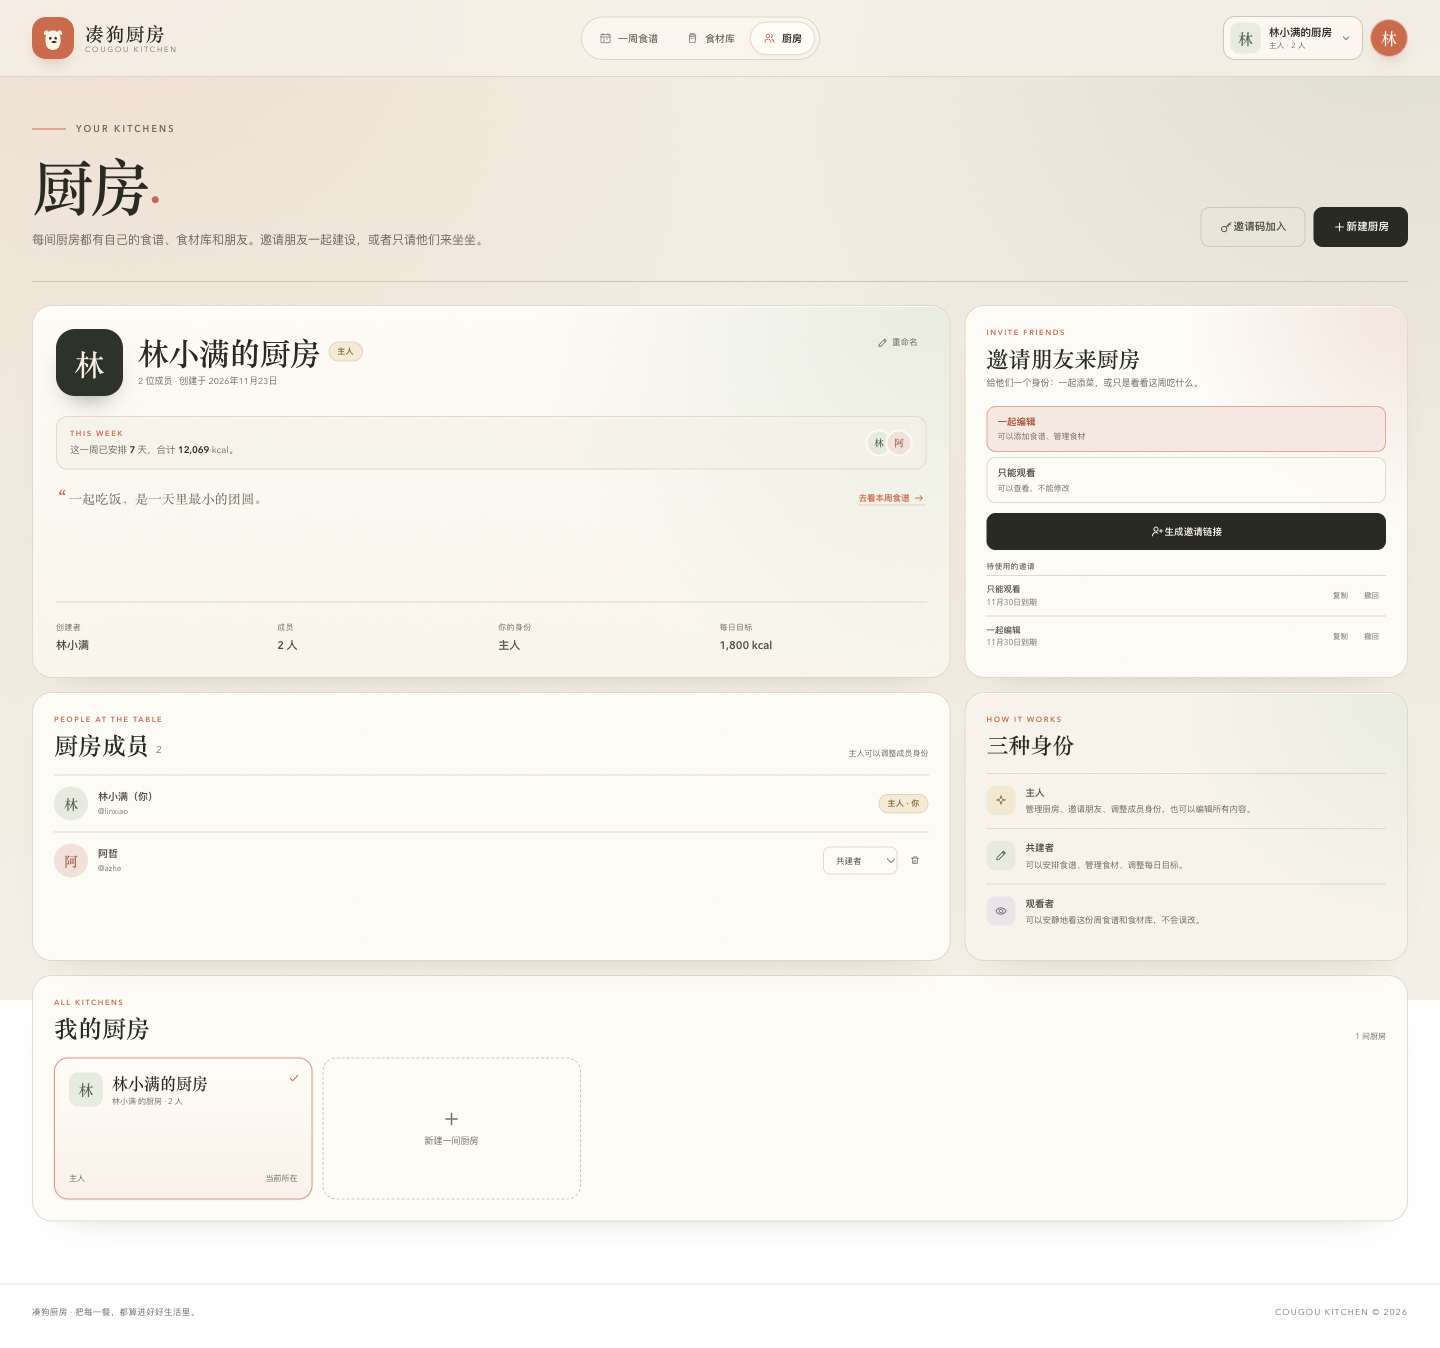
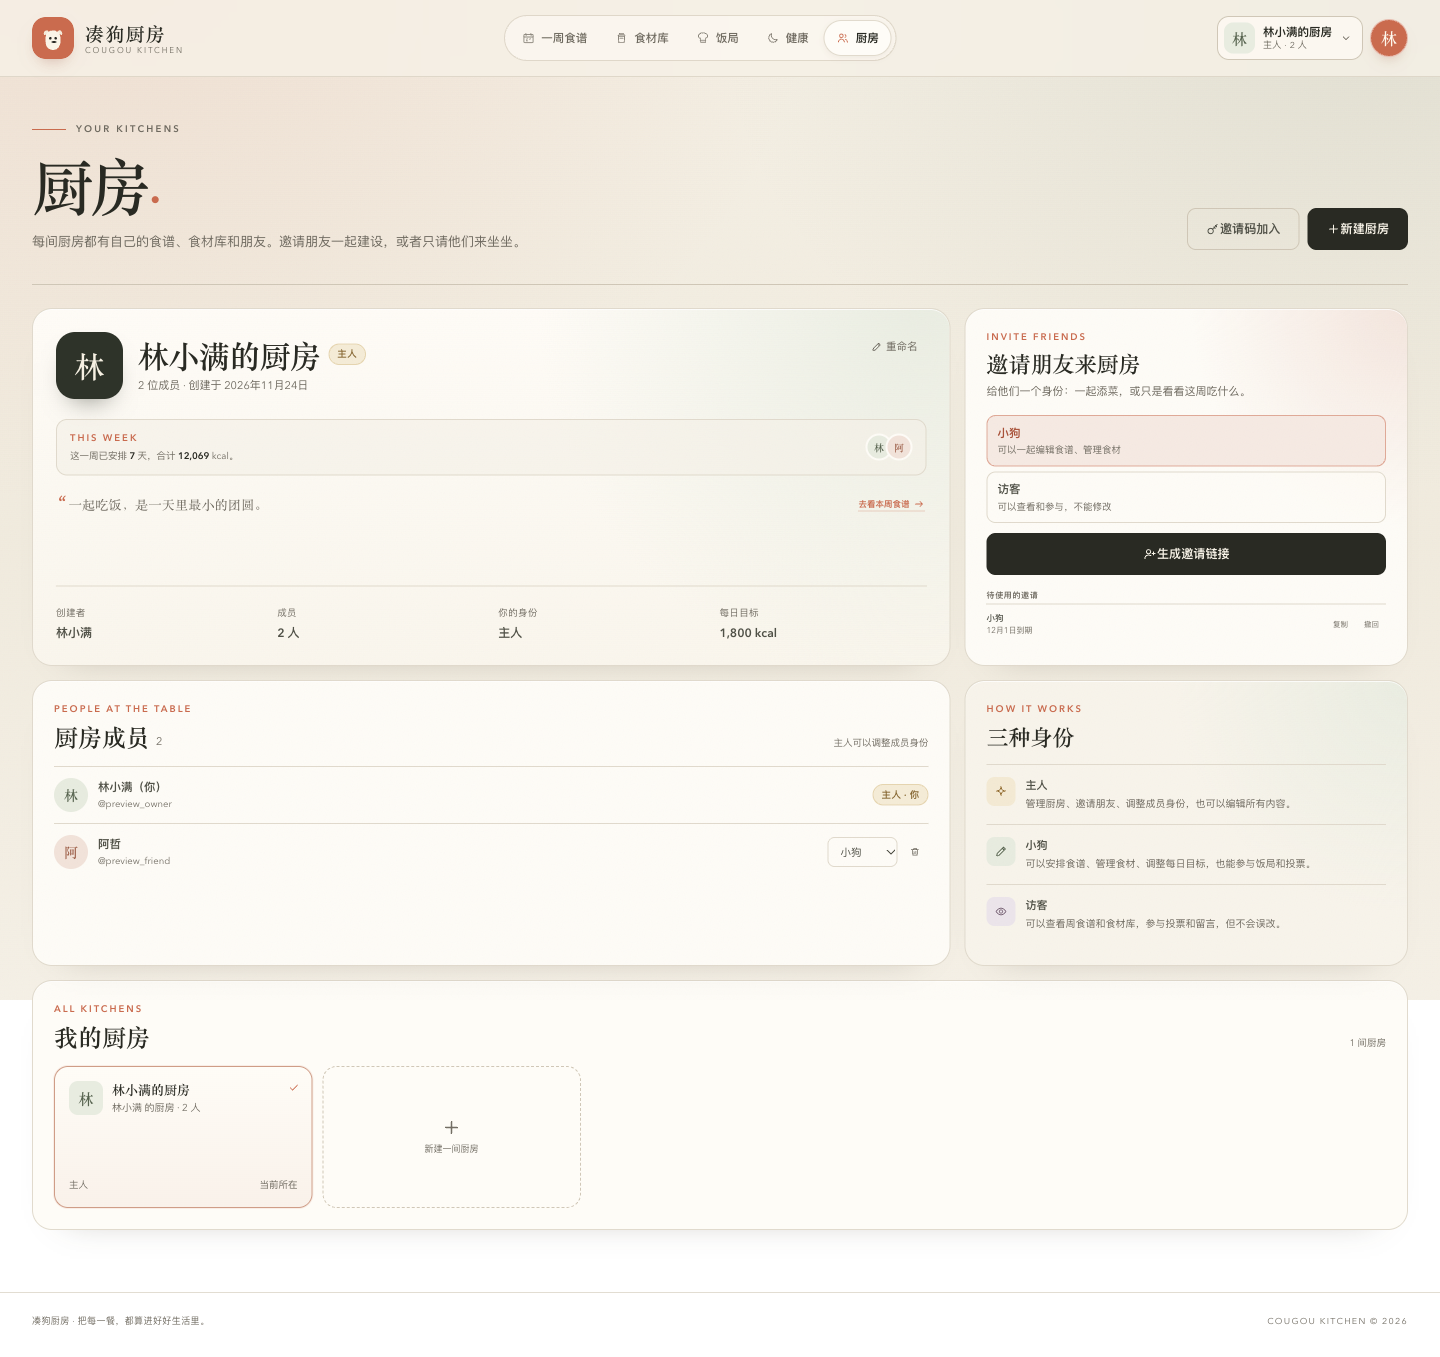
Rename editor and viewer roles to dog and guest

diff --git a/app.js b/app.js
@@ -22,8 +22,8 @@
   const TARGET_MIN = 500;
   const TARGET_MAX = 6000;
   const FOOD_MAX = 5000;
-  const ROLE_LABELS = { owner: "主人", editor: "共建者", viewer: "观看者" };
-  const ROLE_INVITE_LABELS = { editor: "一起编辑", viewer: "只能观看" };
+  const ROLE_LABELS = { owner: "主人", editor: "小狗", viewer: "访客" };
+  const ROLE_INVITE_LABELS = { editor: "小狗", viewer: "访客" };
   const CATEGORY_META = {
     staple: { label: "主食", color: "var(--cat-staple)" },
     protein: { label: "蛋白质", color: "var(--cat-protein)" },
@@ -450,7 +450,7 @@
     if (state.invitePreview) {
       const invite = state.invitePreview;
       dom.authInviteTitle.textContent = `${invite.inviterName} 邀请你加入「${invite.kitchenName}」`;
-      dom.authInviteText.textContent = `加入后身份：${ROLE_INVITE_LABELS[invite.role] || "观看者"}。登录或创建账号后会自动加入。`;
+      dom.authInviteText.textContent = `加入后身份：${ROLE_INVITE_LABELS[invite.role] || "访客"}。登录或创建账号后会自动加入。`;
     } else if (state.inviteError) {
       dom.authInviteTitle.textContent = "这份邀请暂时不可用";
       dom.authInviteText.textContent = state.inviteError;
@@ -1043,7 +1043,7 @@
 
     dom.targetCurrent.textContent = formatTarget(getTarget());
     dom.targetButton.disabled = !canEdit();
-    dom.targetButton.title = canEdit() ? "修改每日目标" : "只有共建者和主人可以修改目标";
+    dom.targetButton.title = canEdit() ? "修改每日目标" : "只有小狗和主人可以修改目标";
 
     dom.readonlyBanner.hidden = canEdit();
     dom.clearWeek.hidden = !canEdit();
@@ -1054,12 +1054,12 @@
     if (canEdit()) {
       dom.plannerSub.innerHTML = '点任意食物编辑，按每餐的 <span>＋</span> 添加新食物。';
     } else {
-      dom.plannerSub.textContent = "这是共享的周食谱，只有主人和共建者可以编辑。";
+      dom.plannerSub.textContent = "这是共享的周食谱，只有主人和小狗可以编辑。";
     }
     dom.emptyAddIngredient.hidden = !canEdit();
     dom.ingredientRoleNote.textContent = canEdit()
       ? "食材库由厨房成员共享"
-      : "你以观看者身份查看这间厨房的食材库";
+      : "你以访客身份查看这间厨房的食材库";
 
     renderKitchenMenu();
     selectNav(state.view);
@@ -2871,7 +2871,7 @@
       dom.inviteOwnerNote.hidden = true;
     } else {
       inviteHeading.textContent = "邀请由主人发起";
-      inviteCopy.textContent = "这间厨房的邀请和管理由主人负责。你可以安心查看，或请主人把你升级为共建者。";
+      inviteCopy.textContent = "这间厨房的邀请和管理由主人负责。你可以安心查看，或请主人把你升级为小狗。";
       roleOptions.hidden = true;
       dom.createInviteButton.hidden = true;
       dom.inviteResult.hidden = true;
@@ -2881,7 +2881,7 @@
     if (owner && state.generatedInviteLink) {
       dom.inviteResult.hidden = false;
       dom.inviteLink.value = state.generatedInviteLink;
-      dom.inviteHint.textContent = `身份：${ROLE_INVITE_LABELS[state.generatedInviteRole] || "观看者"} · 7 天内有效，可邀请多位朋友。`;
+      dom.inviteHint.textContent = `身份：${ROLE_INVITE_LABELS[state.generatedInviteRole] || "访客"} · 7 天内有效，可邀请多位朋友。`;
     } else if (owner) {
       dom.inviteResult.hidden = true;
     }
@@ -3004,7 +3004,7 @@
         (invite) => `
           <div class="active-invite" data-invite-id="${escapeHtml(invite.id)}">
             <div class="active-invite-copy">
-              <strong>${ROLE_INVITE_LABELS[invite.role] || "观看者"}</strong>
+              <strong>${ROLE_INVITE_LABELS[invite.role] || "访客"}</strong>
               <span>${formatExpiry(invite.expiresAt)}</span>
             </div>
             <div class="active-invite-actions">
@@ -3026,8 +3026,8 @@
           owner && !isMemberOwner
             ? `<div class="member-actions">
                  <select class="member-role-select" data-member-role="${escapeHtml(member.id)}" aria-label="修改${escapeHtml(member.displayName)}的身份">
-                   <option value="editor"${member.role === "editor" ? " selected" : ""}>共建者</option>
-                   <option value="viewer"${member.role === "viewer" ? " selected" : ""}>观看者</option>
+                   <option value="editor"${member.role === "editor" ? " selected" : ""}>小狗</option>
+                   <option value="viewer"${member.role === "viewer" ? " selected" : ""}>访客</option>
                  </select>
                  <button class="member-remove" type="button" data-remove-member="${escapeHtml(member.id)}" data-member-name="${escapeHtml(member.displayName)}" aria-label="移除${escapeHtml(member.displayName)}">
                    <svg class="icon" aria-hidden="true"><use href="#icon-trash"></use></svg>
@@ -3670,7 +3670,7 @@
 
   function openTargetModal() {
     if (!canEdit()) {
-      showToast("只有共建者和主人可以修改每日目标。");
+      showToast("只有小狗和主人可以修改每日目标。");
       return;
     }
     dom.targetInput.value = String(getTarget());

diff --git a/index.html b/index.html
@@ -124,7 +124,7 @@ npm start</code></pre>
           <div class="auth-story-foot">
             <ul class="auth-points">
               <li><span>01</span><div><strong>自己的厨房</strong><p>一周食谱、每日热量、食材预设，都装进这里。</p></div></li>
-              <li><span>02</span><div><strong>一起建设</strong><p>邀请朋友成为共建者，或只来观看，也可以随时收回。</p></div></li>
+              <li><span>02</span><div><strong>一起建设</strong><p>邀请朋友成为小狗，或成为访客，也可以随时收回。</p></div></li>
               <li><span>03</span><div><strong>实时同步</strong><p>朋友那边添了一道菜，你这里也能马上看见。</p></div></li>
             </ul>
             <div class="auth-mini-preview" aria-hidden="true">
@@ -381,7 +381,7 @@ npm start</code></pre>
 
           <div class="readonly-banner" id="readonlyBanner" hidden>
             <svg class="icon" aria-hidden="true"><use href="#icon-eye"></use></svg>
-            <p>你正在以「观看者」身份浏览这间厨房。可以看食谱和食材库，编辑需要厨房主人邀请你成为共建者。</p>
+            <p>你正在以「访客」身份浏览这间厨房。可以看食谱和食材库，编辑需要厨房主人邀请你成为小狗。</p>
             <button id="readonlyManage" type="button">查看成员</button>
           </div>
 
@@ -728,15 +728,15 @@ npm start</code></pre>
           <aside class="invite-card" id="inviteCard">
             <p class="card-kicker">INVITE FRIENDS</p>
             <h3>邀请朋友来厨房</h3>
-            <p class="invite-copy">给他们一个身份：一起添菜，或只是看看这周吃什么。</p>
+            <p class="invite-copy">给他们一个身份：成为小狗一起添菜，或成为访客看看这周吃什么。</p>
             <div class="invite-role-options">
               <label class="invite-role">
                 <input type="radio" name="inviteRole" value="editor" checked>
-                <span><strong>一起编辑</strong><small>可以添加食谱、管理食材</small></span>
+                <span><strong>小狗</strong><small>可以一起编辑食谱、管理食材</small></span>
               </label>
               <label class="invite-role">
                 <input type="radio" name="inviteRole" value="viewer">
-                <span><strong>只能观看</strong><small>可以查看，不能修改</small></span>
+                <span><strong>访客</strong><small>可以查看和参与，不能修改</small></span>
               </label>
             </div>
             <button class="button button-primary invite-button" id="createInviteButton" type="button">
@@ -755,7 +755,7 @@ npm start</code></pre>
             </div>
             <div class="invite-owner-note" id="inviteOwnerNote" hidden>
               <svg class="icon" aria-hidden="true"><use href="#icon-lock"></use></svg>
-              <p>邀请朋友和管理成员是厨房主人的权限。你现在是<span id="inviteOwnerRole">共建者</span>。</p>
+              <p>邀请朋友和管理成员是厨房主人的权限。你现在是<span id="inviteOwnerRole">小狗</span>。</p>
             </div>
             <div class="active-invites" id="activeInvites"></div>
           </aside>
@@ -782,11 +782,11 @@ npm start</code></pre>
             </div>
             <div class="role-guide-row">
               <span class="role-guide-icon editor"><svg class="icon" aria-hidden="true"><use href="#icon-pencil"></use></svg></span>
-              <div><strong>共建者</strong><p>可以安排食谱、管理食材、调整每日目标。</p></div>
+              <div><strong>小狗</strong><p>可以安排食谱、管理食材、调整每日目标，也能参与饭局和投票。</p></div>
             </div>
             <div class="role-guide-row">
               <span class="role-guide-icon viewer"><svg class="icon" aria-hidden="true"><use href="#icon-eye"></use></svg></span>
-              <div><strong>观看者</strong><p>可以安静地看这份周食谱和食材库，不会误改。</p></div>
+              <div><strong>访客</strong><p>可以查看周食谱和食材库，参与投票和留言，但不会误改。</p></div>
             </div>
           </aside>
         </div>

diff --git a/cloudflare/functions/api/[[path]].js b/cloudflare/functions/api/[[path]].js
@@ -509,7 +509,7 @@ async function requireMembership(env, kitchenId, userId, { edit = false, owner =
   const kitchen = await getKitchenSummary(env, kitchenId, userId);
   if (!kitchen) throw new HttpError(404, "厨房不存在，或你还不是这个厨房的成员。");
   if (owner && kitchen.role !== "owner") throw new HttpError(403, "只有厨房主人可以执行这个操作。");
-  if (edit && kitchen.role === "viewer") throw new HttpError(403, "你是观看者，暂时不能修改这个厨房。");
+  if (edit && kitchen.role === "viewer") throw new HttpError(403, "你是访客，暂时不能修改这个厨房。");
   return kitchen;
 }
 
@@ -1304,7 +1304,7 @@ async function handleUpdateGrocery(request, env, user, kitchenId, groceryId) {
   const onlyDone = keys.length === 1 && keys[0] === "done";
   const canToggleOwn = onlyDone && duty.user_id === user.id;
   if (kitchen.role === "viewer" && !canToggleOwn) {
-    throw new HttpError(403, "你是观看者，只能更新自己负责的买菜进度。");
+    throw new HttpError(403, "你是访客，只能更新自己负责的买菜进度。");
   }
   let userId = duty.user_id;
   if (Object.prototype.hasOwnProperty.call(body, "userId")) {
@@ -1607,7 +1607,7 @@ async function handleUpdateKitchen(request, env, user, kitchenId) {
   if (!hasName && !hasTarget) throw new HttpError(400, "没有需要更新的内容。");
   const kitchen = await requireMembership(env, kitchenId, user.id);
   if (hasName && kitchen.role !== "owner") throw new HttpError(403, "只有厨房主人可以重命名厨房。");
-  if (hasTarget && kitchen.role === "viewer") throw new HttpError(403, "你是观看者，不能修改每日目标。");
+  if (hasTarget && kitchen.role === "viewer") throw new HttpError(403, "你是访客，不能修改每日目标。");
 
   let name = null;
   let target = null;

diff --git a/server.js b/server.js
@@ -693,7 +693,7 @@ function requireMembership(kitchenId, userId, { edit = false, owner = false } = 
     throw new HttpError(403, "只有厨房主人可以执行这个操作。");
   }
   if (edit && kitchen.role === "viewer") {
-    throw new HttpError(403, "你是观看者，暂时不能修改这个厨房。");
+    throw new HttpError(403, "你是访客，暂时不能修改这个厨房。");
   }
   return kitchen;
 }
@@ -1679,7 +1679,7 @@ async function handleUpdateGrocery(req, res, user, kitchenId, groceryId) {
   const onlyDone = keys.length === 1 && keys[0] === "done";
   const canToggleOwn = onlyDone && duty.user_id === user.id;
   if (kitchen.role === "viewer" && !canToggleOwn) {
-    throw new HttpError(403, "你是观看者，只能更新自己负责的买菜进度。");
+    throw new HttpError(403, "你是访客，只能更新自己负责的买菜进度。");
   }
 
   let userId = duty.user_id;
@@ -2160,7 +2160,7 @@ async function handleUpdateKitchen(req, res, user, kitchenId) {
     throw new HttpError(403, "只有厨房主人可以重命名厨房。");
   }
   if (hasTarget && kitchen.role === "viewer") {
-    throw new HttpError(403, "你是观看者，不能修改每日目标。");
+    throw new HttpError(403, "你是访客，不能修改每日目标。");
   }
 
   let name = null;

diff --git a/admin.js b/admin.js
@@ -90,7 +90,7 @@
   }
 
   function inviteRoleLabel(role) {
-    return role === "editor" ? "一起编辑" : "只能观看";
+    return role === "editor" ? "小狗" : "访客";
   }
 
   function inviteStatus(invite) {
@@ -656,7 +656,7 @@
                     (member) => `
                       <div class="admin-detail-row">
                         <span>${escapeHtml(member.displayName)} · @${escapeHtml(member.username)}</span>
-                        <span>${escapeHtml(member.role === "owner" ? "主人" : member.role === "editor" ? "共建者" : "观看者")}</span>
+                        <span>${escapeHtml(member.role === "owner" ? "主人" : member.role === "editor" ? "小狗" : "访客")}</span>
                       </div>
                     `,
                   )

diff --git a/README.md b/README.md
@@ -37,7 +37,7 @@
 - **发起用餐投票**：例如「周末吃什么」，厨房成员每人一票，可以随时改票；发起人或厨房主人可以结束、重新开启或删除投票。
 - **记录谁负责买菜**：记下本周的采购负责人、哪天去、要买什么；买完可以勾选完成。
 - **留言板**：给厨房成员留话、分享今天的安排；留言板已经并入饭局页，不再单独占用导航。
-- 观看者也可以参与投票、留言，并勾选自己负责的买菜任务，但不能修改食谱或管理饭局安排。
+- 访客也可以参与投票、留言，并勾选自己负责的买菜任务，但不能修改食谱或管理饭局安排。
 
 ![饭局](preview-table.png)
 
@@ -54,8 +54,8 @@
 - 每位用户都可以新建自己的厨房，并邀请朋友。
 - 三种身份，服务端强制校验：
   - **主人**：邀请朋友、管理成员、重命名厨房、编辑所有内容。
-  - **共建者**：编辑周食谱、管理食材库、修改每日目标，使用模板 / 收藏 / 饭局安排。
-  - **观看者**：查看食谱、食材库和成员列表；可以参与用餐投票，并更新自己负责的买菜进度。
+  - **小狗**：编辑周食谱、管理食材库、修改每日目标，使用模板 / 收藏 / 饭局安排。
+  - **访客**：查看食谱、食材库和成员列表；可以参与用餐投票、留言，并更新自己负责的买菜进度。
 - 邀请链接默认 7 天有效，可邀请多人，可随时复制或撤回。
 - 通过 Server-Sent Events 实时同步：朋友添加食物、修改食材、安排掌勺或发起投票后，你这边会自动刷新。
 - 所有修改都先经过服务端权限校验，前端隐藏按钮只是体验层。
@@ -144,7 +144,7 @@ ADMIN_USERNAME=用户名 npm start
 1. 注册账号，系统自动创建你的第一间厨房。
 2. 在「一周食谱」里点击每餐右侧的 `＋` 添加食物。
 3. 在「食材库」里维护常吃食材，之后添加食物时直接选择预设。
-4. 打开「厨房」，选择「一起编辑」或「只能观看」，生成邀请链接发给朋友。
+4. 打开「厨房」，选择「小狗」或「访客」，生成邀请链接发给朋友。
 5. 朋友打开链接，登录或注册后会自动加入这间厨房。
 6. 主人可以在「厨房」页面调整成员身份、移除成员或撤回邀请。
 7. 如需管理全站数据，用 `npm run make-admin -- 用户名` 授权管理员，再访问 `/admin`。
